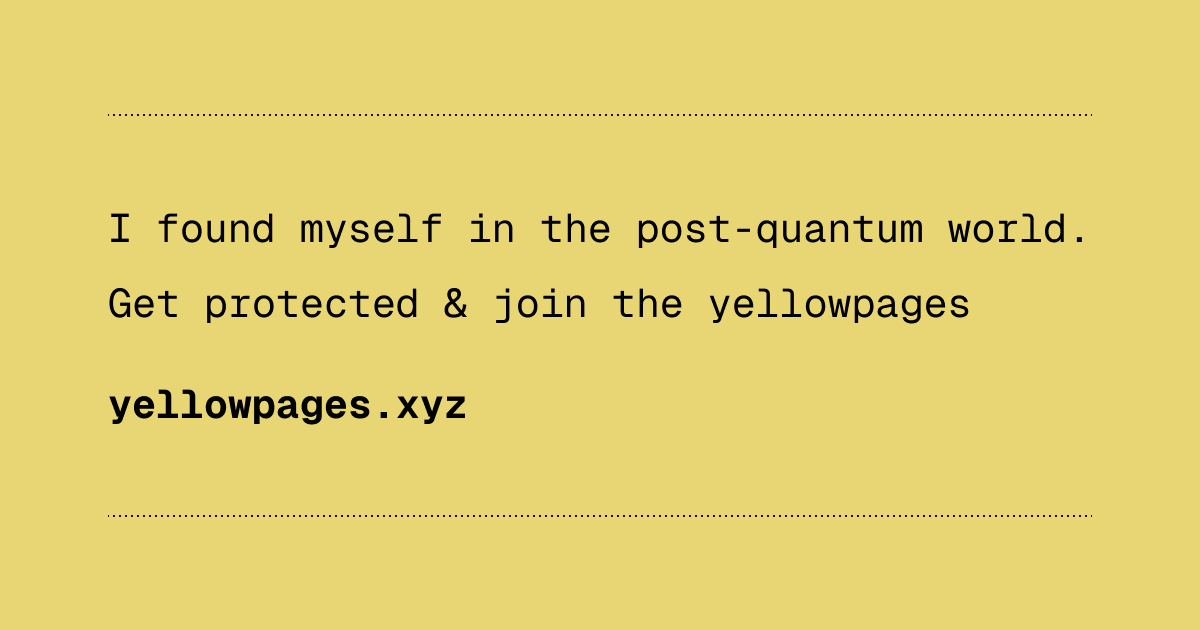
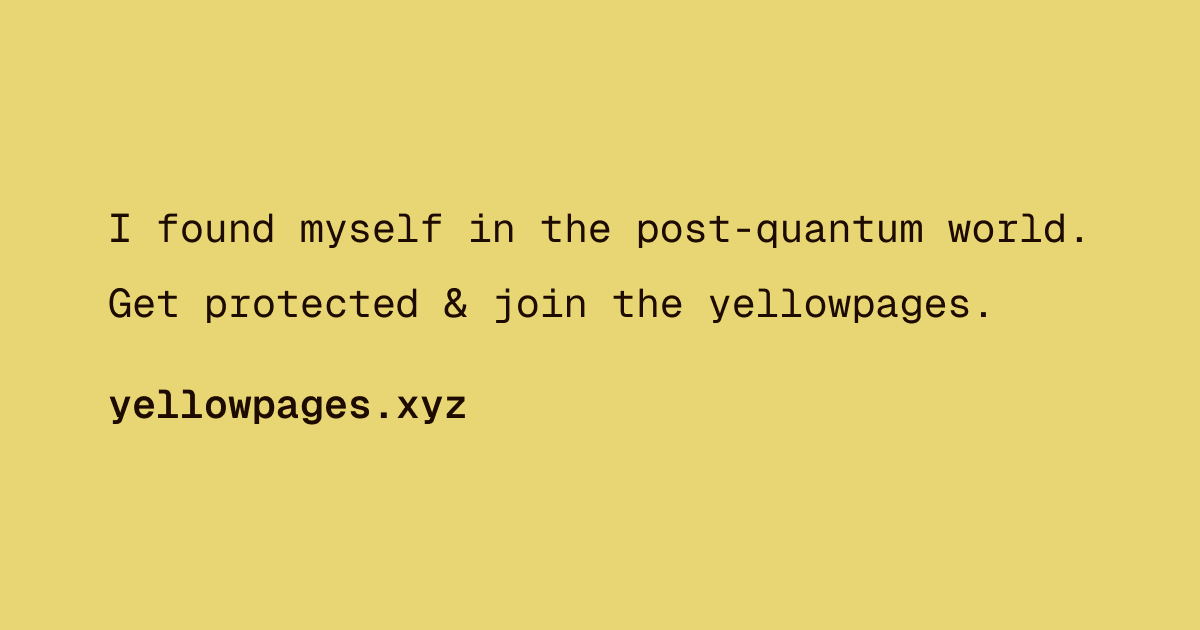
add social section to completion page

diff --git a/src/app/components/RegistrationComplete/index.tsx b/src/app/components/RegistrationComplete/index.tsx
@@ -7,6 +7,7 @@ import { Button } from '@/app/components/Button';
 import { Alert } from '@/app/components/Alert';
 import { useRegistrationSessionContext } from '@/app/providers/RegistrationSessionProvider';
 import { DirectoryEntry } from '@/app/components/DirectoryEntry';
+import { CopyTextToolbarButton } from '../CopyTextToolbarButton';
 import styles from './styles.module.css';
 
 export function RegistrationComplete() {
@@ -16,6 +17,10 @@ export function RegistrationComplete() {
   const navigateToHomepage = useCallback(() => {
     router.push('/');
   }, [router]);
+
+  const copySocialLink = useCallback(() => {
+    navigator.clipboard.writeText('https://yellowpages.xyz');
+  }, []);
 
   if (!bitcoinAddress || !signedMessages) return null;
 
@@ -39,6 +44,18 @@ export function RegistrationComplete() {
         </div>
         <div>
           <h2 className={styles.sectionTitle}>What&apos;s next?</h2>
+          <p>Help others find the yellowpages:</p>
+          <div className={styles.socialSection}>
+            <div className={styles.socialSectionContent}>
+              <p>I found myself in the post-quantum world.</p>
+              <p>Get protected & join the yellowpages.</p>
+              <p>yellowpages.xyz</p>
+            </div>
+          </div>
+          <CopyTextToolbarButton
+            label='Copy social link'
+            onClick={copySocialLink}
+          />
           <p>
             Check your registration by{' '}
             <Link href='/search'>searching the directory</Link> or visit our{' '}

diff --git a/src/app/components/CopyTextToolbarButton/index.tsx b/src/app/components/CopyTextToolbarButton/index.tsx
@@ -3,7 +3,13 @@ import { ToolbarButton } from '@/app/components/ToolbarButton';
 import { CheckIcon } from '@/app/icons/CheckIcon';
 import { CopyIcon } from '@/app/icons/CopyIcon';
 
-export function CopyTextToolbarButton({ onClick }: { onClick: () => void }) {
+export function CopyTextToolbarButton({
+  label = 'Copy',
+  onClick
+}: {
+  label?: string;
+  onClick: () => void;
+}) {
   const [isIndicatorVisible, setIsIndicatorVisible] = useState(false);
   const timeoutRef = useRef<ReturnType<typeof setTimeout>>(null);
 
@@ -32,7 +38,7 @@ export function CopyTextToolbarButton({ onClick }: { onClick: () => void }) {
       ) : (
         <>
           <CopyIcon />
-          Copy
+          {label}
         </>
       )}
     </ToolbarButton>

diff --git a/src/app/components/RegistrationComplete/styles.module.css b/src/app/components/RegistrationComplete/styles.module.css
@@ -28,6 +28,26 @@
     margin-bottom: 60px;
 }
 
+.socialSection {
+    display: flex;
+}
+
+.socialSectionContent {
+    border: 4px solid #cfbf67;
+    border-radius: 10px;
+    background-color: #E8D674;
+    padding: 20px;
+}
+
+.socialSectionContent p {
+    margin: 0;
+}
+
+.socialSectionContent p:last-of-type {
+    margin-top: 16px;
+    font-weight: 600;
+}
+
 @media only screen and (min-width: 768px) {
     .title {
         margin-top: 32px;
